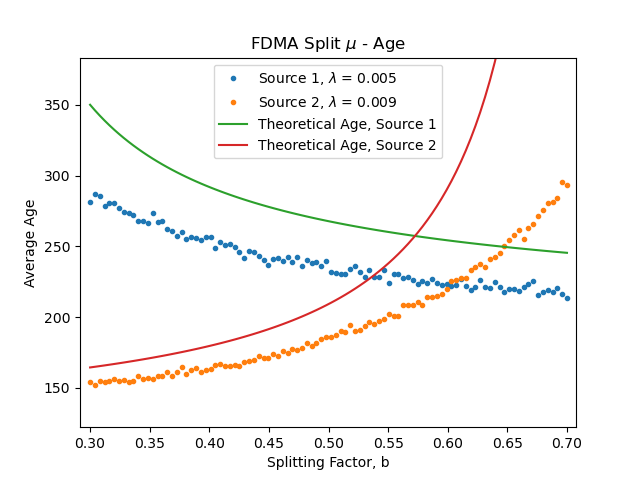
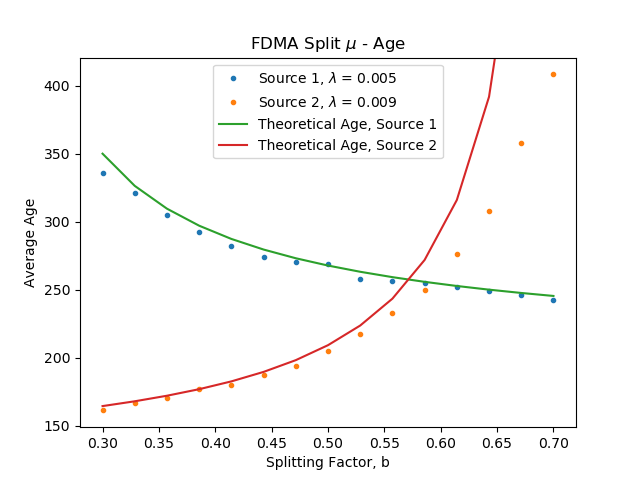
Added time padding to AoiQueue and FDMA queue

diff --git a/Python/AoIQueue.py b/Python/AoIQueue.py
@@ -15,11 +15,15 @@ class AoIQueue:
         precision = int(-math.log10(self._tStep))
 
         # Make time array
-        self._t = np.arange(0, self._tFinal + self._tStep, self._tStep)
+        padding = 5 * 1/self._lambda  # Add some time to the begining to average 10 packet arrivals 
+        self._t = np.arange(0, padding + self._tFinal + self._tStep, self._tStep)
+        start_time = padding
+        end_time = max(self._t) #- padding
 
         # Generate array of packet arrival times and store the number of packets
         self._timeArrived = GenerateTransmissions(self._t, self._lambda)
-        self._numPackets = len(self._timeArrived)
+        # relavant_packets = np.where( np.logical_and(self._timeArrived >= start_time, self._timeArrived <= end_time) )
+        # self._numPackets = len( relavant_packets[0] )
 
         # Generate array of service times
         array_size = self._timeArrived.shape
@@ -38,7 +42,7 @@ class AoIQueue:
         numServed = 0  # Counter for number of packets served
 
         # Go through each packet and calculate when they get served
-        for i in range(self._numPackets):
+        for i in range(len(self._timeArrived)):
             # Calculate when the first packet gets served
             if i == 0:
                 # First packet that arrives is only as old as its service time
@@ -70,7 +74,7 @@ class AoIQueue:
             currentTime = round(currentTime, precision)
 
             # Cutoff the simulation at tFinal
-            if currentTime > self._tFinal:
+            if currentTime > end_time:
                 break
 
             # Find the corresponding index in the age array
@@ -87,13 +91,25 @@ class AoIQueue:
             reduceAge = self._age[ageIndex] - self._packetAge[i]
             self._age[ageIndex:] -= reduceAge
 
-            numServed += 1
-        
+            if currentTime >= start_time and currentTime <= end_time:
+                numServed += 1
+
+
+        # Cutoff the padding at the beginning
+        self._t = np.arange(0, self._tFinal+self._tStep, self._tStep)
+        start_idx = int( start_time / self._tStep )
+        end_idx = int( end_time / self._tStep ) + 1
+        self._age = self._age[start_idx:end_idx] 
+
+
         # Calculate the averages
         self.avgAge = np.mean(self._age)
         self.avgDelay = np.mean(self._delayTime)
 
-        self.percentServed = numServed / self._numPackets
+        # Expected number of packets for the time window
+        packets_expected = self._tFinal * self._lambda
+        self.percentServed = numServed / packets_expected
+
 
     # Prints information about the simulation
     def printData(self):
@@ -110,7 +126,7 @@ class AoIQueue:
         print("Finished".rjust(10), end='')
         print("Age".rjust(10))
 
-        for i in range(self._numPackets):
+        for i in range(len(self._timeArrived)):
             print("{:.1f}".format(self._timeArrived[i]).rjust(10), end='')
             print("{:.1f}".format(self._serviceTimes[i]).rjust(10), end='')
             print("{:.1f}".format(self._delayTime[i]).rjust(10), end='')
@@ -118,15 +134,15 @@ class AoIQueue:
             print("{:.1f}".format(self._packetAge[i]).rjust(10))
 
     def plotAge(self):
-        plt.plot(self._t, self._age, label="Age of Information")
+        fig, ax = plt.subplots()
+        ax.plot(self._t, self._age, label="Age of Information")
         avgAgePlt = self.avgAge * np.ones( np.size(self._age) )
-        plt.plot(self._t, avgAgePlt,
+        ax.plot(self._t, avgAgePlt,
                  label="Average Age = {:.2f}".format(self.avgAge))
-        plt.xlabel("time (s)")
-        plt.ylabel("age (s)")
-        plt.legend()
+        ax.set_xlabel("time (s)")
+        ax.set_ylabel("age (s)")
+        ax.legend()
         
-        plt.show()
       
     # Exports the age and time arrays in a csv file for other programs
     def exportResults(self, filename):
@@ -155,18 +171,21 @@ class AoIQueue:
     #     return self._percentServed
 
 if __name__ == "__main__":
-    tFinal = 360
+    tFinal = 18000
     dt = 0.1
-    arrivalRate = 1/60
+    arrivalRate = 1/200
     serviceRate = 1/30
 
     
     queue = AoIQueue(tFinal, dt, arrivalRate, serviceRate)
+    
+
     avgAges = queue.avgAge
     queue.printData()
     print(queue.percentServed)
 
     queue.plotAge()
+    plt.show()
     
     
 

diff --git a/Python/FDMA_split_mu.py b/Python/FDMA_split_mu.py
@@ -5,7 +5,7 @@ import time
 
 if __name__ == "__main__":
     # Set simulation step size and duration (seconds)
-    tFinal = 1800
+    tFinal = 18000
     dt = 0.1
 
     # Set number of sources
@@ -15,14 +15,14 @@ if __name__ == "__main__":
     mu = 1/30
 
     # Set splitting factor b
-    bLength = 100
+    bLength = 15
     splitFactor = np.linspace(0.3, 0.7, bLength)
 
     # Set arrival rates for each source (packet/second)
     arrivalRate = [0, 0]
     # Need to make sure that the arrival rate will always be less than the service rate
-    arrivalRate[0] = mu * min(splitFactor) * 0.5
-    arrivalRate[1] = mu * (1 - max(splitFactor)) * 0.3
+    arrivalRate[0] = mu * min(splitFactor) * 0.9
+    arrivalRate[1] = mu * (1 - max(splitFactor)) * 0.9
 
     numSimulations = 1000 
     avgAge = np.zeros((bLength, numSources))
@@ -73,6 +73,9 @@ if __name__ == "__main__":
 
     ax.plot(splitFactor, avgAge[:,0], '.', label="Source 1, $\lambda$ = {:.3f}".format(arrivalRate[0]))
     ax.plot(splitFactor, avgAge[:,1], '.', label="Source 2, $\lambda$ = {:.3f}".format(arrivalRate[1]))
+
+    ylim = ax.get_ylim()
+    ax.set_ylim(ylim)
     #ax.plot(splitFactor, overallAvgAge, '.', label="Overall Average Age")
     ax.plot(splitFactor, theoretical_age[0,:], label="Theoretical Age, Source 1")
     ax.plot(splitFactor, theoretical_age[1,:], label="Theoretical Age, Source 2")
